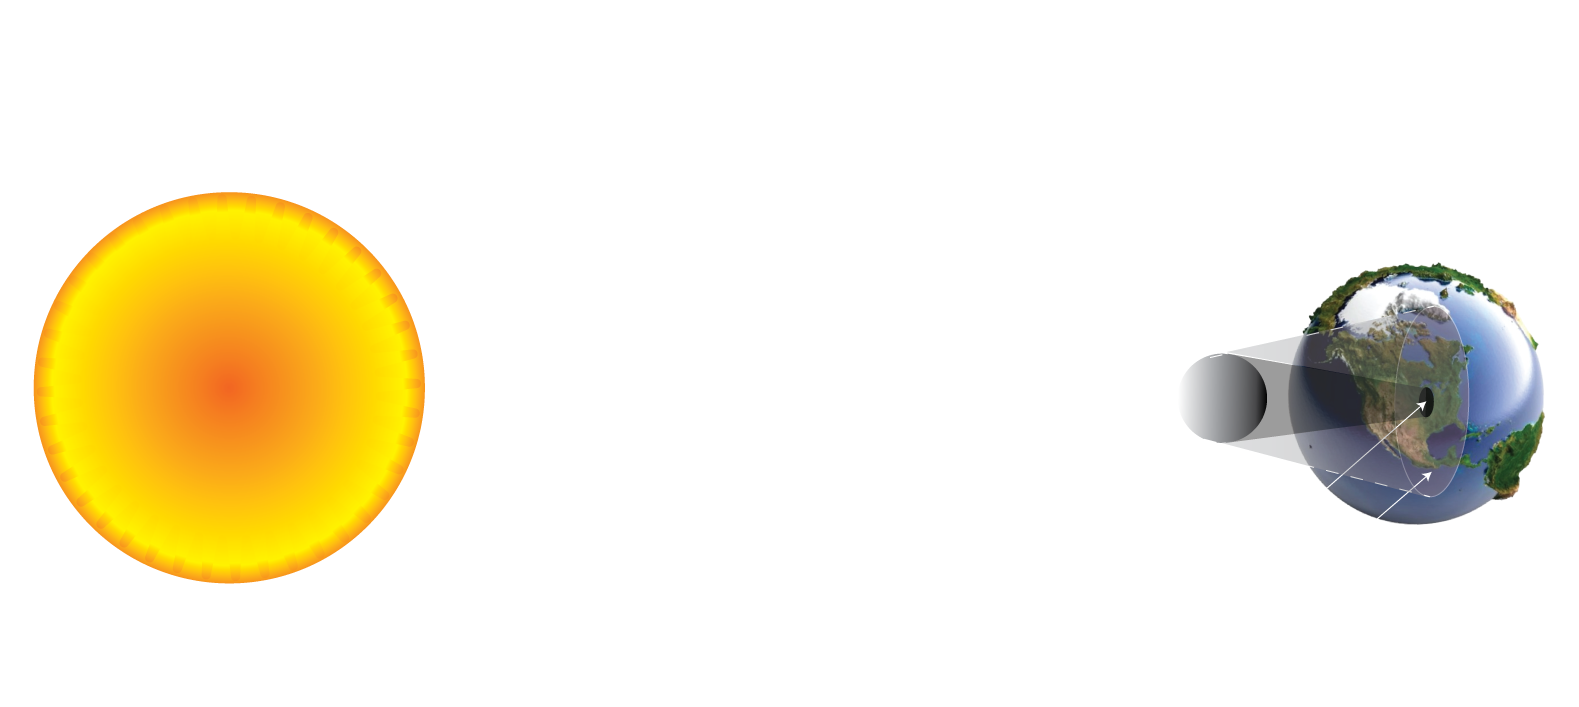
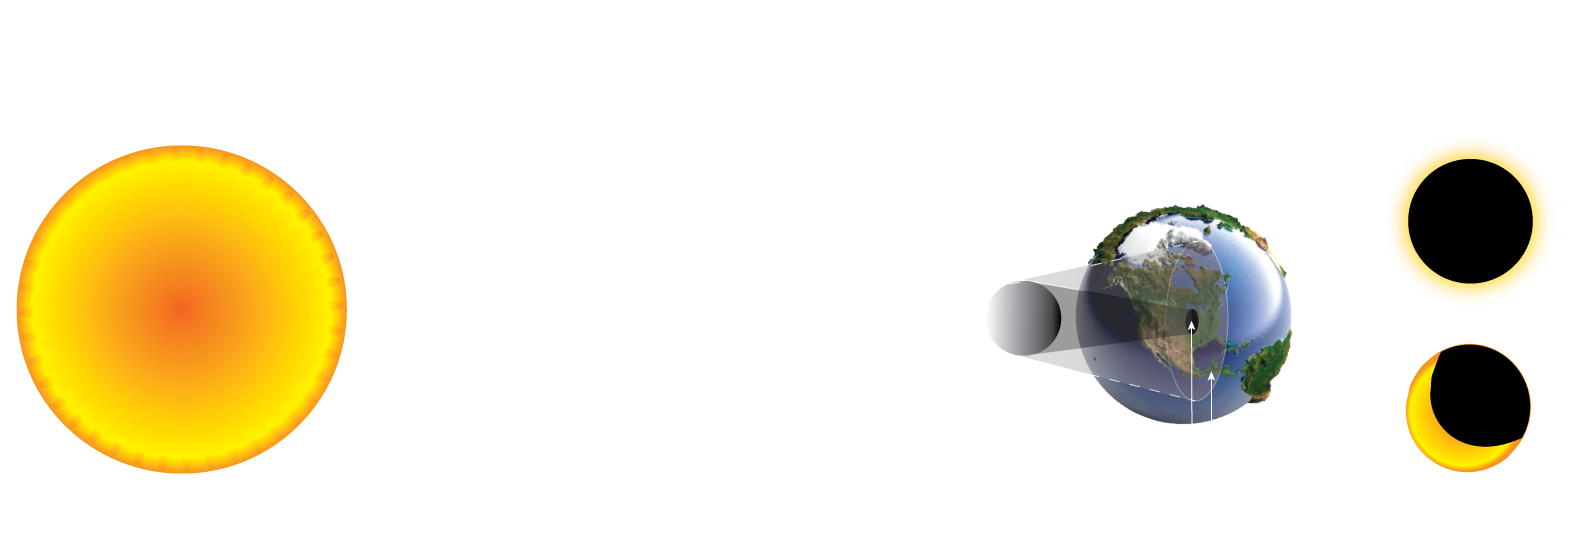
Images for Eclipes Changed

Changed region(s): [[0.6242, 0.2455, 0.9987, 0.8592], [0.0, 0.2455, 0.2809, 0.8592]]

diff --git a/solareclipse.html b/solareclipse.html
@@ -6,7 +6,7 @@
     <title>What is Solar Eclipse</title>
 
     <link rel="stylesheet" href="css/bootstrap.min.css">
-    <link rel="stylesheet" href="css/style.css">
+   
 </head>
 <style>
 
@@ -70,8 +70,8 @@ table:hover{
 }
 
 table, tr, td, th{
-    border: 0.25px solid white;
-    text-align: center;
+    border: 1px solid white;
+    text-align: left;
 }
 
 th {
@@ -80,6 +80,7 @@ th {
     height: 50px;
     font-size: 21px;
     color: #000000;
+    text-align: center;
 }
 .tableheader{
     width: 650px;
@@ -105,7 +106,7 @@ th {
 
                 <div class="typesofeclise">
                 <h3 style="text-align: left;">Types of Solar Eclipses</h3><p></p>
-                <p class="TypeofEclipes">There are four types of solar eclipses</p>
+                <p class="TypeofEclipes">According to NASA, there are four types of solar eclipses</p>
 
                 <ol>
                     <li class="TypeofEclipes">Total Solar Eclipse
@@ -118,28 +119,38 @@ th {
                     <li class="TypeofEclipes">Annular Solar Eclipses <br> <p style="padding-left: 25px; font-size:15px">
                         An annular solar eclipse happens when the Moon covers the Sun's center, 
                         leaving the Sun's visible outer edges to form a ring like fire.
-                    </p></li>
+
+                        <br>
+                        <p style="padding-left: 25px; font-size:15px">When the total distance between the Moon and the Earth is comparatively small, only the Moon's umbra (Shadow) falls on Earth,
+                        creating a total solar eclipse in all locations along the central shadow's path. Annular solar eclipses happen when the
+                        Moon is relatively far away from Earth, so the antumbra (Lighter Part of a Shadow) forms before the shadow reaches Earth, even in locations facing
+                        the Moon directly.</p>
+                    </p></li> <br>
                     <li class="TypeofEclipes">Hybrid solar Eclipse
                         <p style="padding-left: 25px; font-size:15px">Because the Earth's surface is curved, an eclipse can alternate between annular and total as the Moon's shadow sweeps
-                        across the planet. This is known as a hybrid solar eclipse.</p>
+                        across the planet. This is known as a hybrid solar eclipse. <br>
+
+                        In mathematical terms, if you divide the distance between the Sun and the Earth during the eclipse by the distance
+                        between the Moon and the Earth, the result must be a number very close to 400 for a hybrid eclipse to occur. Source: <a href="https://www.timeanddate.com/eclipse/hybrid-solar-eclipse.html">TimeAndDate</a>
+                        <br>Hybrid solar eclipses are rare, as they occure once per decade. 
+                    </p>
                     </li> <br>
                 </ol>
                 </div> <br>
 
-                <p>Here is a visual representation of all four</p> <br>
+                <p>Here is a visual representation of all four</p> <br><br>
 
                 <div style="text-align: center;">
                     <img src="contents/Eclipse-01.png" alt="" class="eclipseimage">
                 </div>
-                <p></p>
-                <p></p>
-                <br><br><br>
+                
+                <br> <hr style="height:1px;border-width:0;color:gray;background-color:gray"><br>
 
                 <div style="text-align: center;">
                     <img src="contents/Eclipse2-01.png" alt="" class="eclipseimage2">
-                </div> <br><br><br>
+                </div> <br><br>
 
-                <h5>Here is an example of the Solar Eclipse that happend on April 8, 2024 in Northern America</h5> <br><br><br><br>
+                <h6>Here is an example of the Solar Eclipse that happend on April 8, 2024 in Northern America</h6> <br><br><br><br>
 
                 <div style="text-align: center;">
                 <img src="contents/Solar-Eclip.png" alt="" class="soloareclipsemap"><br><br>
@@ -148,7 +159,7 @@ th {
 
                 <div class="upcomingsolareclips"> 
 
-                    <h3>Get Ready for The Below Upcoming Eclipses</h3><br><br>
+                    <h3>Lets Get Ready for the Upcoming Eclipses</h3><br><br>
                     <table>
                         <tr>
                             <th>Date</th>
@@ -196,7 +207,11 @@ th {
 
             </div>
         </div>
-        <br><br>
+        <br><br><br><br>
+
+        <p style="text-align: center; color: rgb(251, 251, 251); font-size: 15px;">Copyright &copy;
+            <script>document.write(new Date().getFullYear())</script> Abdullah Ameen, All Rights Reserved
+        </p> <br><br>
 
       
     </div>
